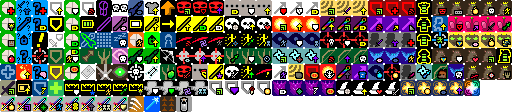
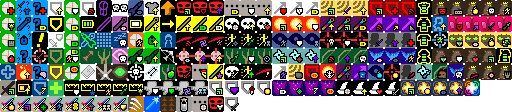
1.4: implemented new warrior sub talents

Changed region(s): [[0.375, 0.8571, 0.4688, 1.0]]

diff --git a/core/src/main/java/com/zrp200/rkpd2/actors/hero/Talent.java b/core/src/main/java/com/zrp200/rkpd2/actors/hero/Talent.java
@@ -83,11 +83,11 @@ public enum Talent {
 	//Warrior T3
 	HOLD_FAST(9, 3), STRONGMAN(10, 3), BEAR_PAW(200, 3),
 	//Berserker T3
-	ENDLESS_RAGE(11, 3), BERSERKING_STAMINA(12, 3), ENRAGED_CATALYST(13, 3), ONE_MAN_ARMY(139,3),
+	ENDLESS_RAGE(11, 3), BERSERKING_STAMINA(12, 3), ENRAGED_CATALYST(13, 3), ONE_MAN_ARMY(139,3), BRAVERY(205, 3),
 	//Gladiator T3
-	CLEAVE(14, 3), LETHAL_DEFENSE(15, 3), ENHANCED_COMBO(16, 3), SKILL(140,3),
+	CLEAVE(14, 3), LETHAL_DEFENSE(15, 3), ENHANCED_COMBO(16, 3), SKILL(140,3), EFFICIENT_TRAINING(204, 3),
 	//Brawler T3
-	POWER_STABILIZER(173, 3), ARCANITY_ENSUES(174, 3), IN_MY_MEMORIES(175, 3), HOLERIC_BURST(176, 3),
+	POWER_STABILIZER(173, 3), ARCANITY_ENSUES(174, 3), IN_MY_MEMORIES(175, 3), HOLERIC_BURST(176, 3), PRIDE_OF_STEEL(206, 3),
 	//Heroic Leap T4
 	BODY_SLAM(17, 4), IMPACT_WAVE(18, 4), DOUBLE_JUMP(19, 4), ALICE_GAMBIT(145, 4),
 	//Shockwave T4
@@ -509,6 +509,13 @@ public enum Talent {
 			Buff.prolong( hero, Haste.class, 0.67f+points);
 			hero.sprite.emitter().burst(Speck.factory(Speck.JET), 4*points);
 		}, ROYAL_MEAL);
+		if (hero.hasTalent(EFFICIENT_TRAINING)){
+			for (int i = 0; i < hero.pointsInTalent(EFFICIENT_TRAINING)-1; i++){
+				Buff.affect(hero, Combo.class).incCombo();
+			}
+			if (hero.buff(Combo.class) != null)
+				Buff.affect(hero, Combo.class).addTime(8f);
+		}
 	}
 
 	public static class WarriorFoodImmunity extends FlavourBuff{
@@ -885,13 +892,13 @@ public enum Talent {
 		//tier 3
 		switch (cls){
 			case BERSERKER: default:
-				Collections.addAll(tierTalents, ENDLESS_RAGE, BERSERKING_STAMINA, ENRAGED_CATALYST, ONE_MAN_ARMY);
+				Collections.addAll(tierTalents, ENDLESS_RAGE, BERSERKING_STAMINA, ENRAGED_CATALYST, ONE_MAN_ARMY, BRAVERY);
 				break;
 			case BRAWLER:
-				Collections.addAll(tierTalents, POWER_STABILIZER, ARCANITY_ENSUES, IN_MY_MEMORIES, HOLERIC_BURST);
+				Collections.addAll(tierTalents, POWER_STABILIZER, ARCANITY_ENSUES, IN_MY_MEMORIES, HOLERIC_BURST, PRIDE_OF_STEEL);
 				break;
 			case GLADIATOR:
-				Collections.addAll(tierTalents, CLEAVE, LETHAL_DEFENSE, ENHANCED_COMBO, SKILL);
+				Collections.addAll(tierTalents, CLEAVE, LETHAL_DEFENSE, ENHANCED_COMBO, SKILL, EFFICIENT_TRAINING);
 				break;
 			case BATTLEMAGE:
 				Collections.addAll(tierTalents, EMPOWERED_STRIKE, MYSTICAL_CHARGE, EXCESS_CHARGE, SORCERY);

diff --git a/core/src/main/java/com/zrp200/rkpd2/actors/Char.java b/core/src/main/java/com/zrp200/rkpd2/actors/Char.java
@@ -52,6 +52,7 @@ import com.zrp200.rkpd2.items.rings.RingOfElements;
 import com.zrp200.rkpd2.items.scrolls.ScrollOfRetribution;
 import com.zrp200.rkpd2.items.scrolls.ScrollOfTeleportation;
 import com.zrp200.rkpd2.items.scrolls.exotic.ScrollOfPsionicBlast;
+import com.zrp200.rkpd2.items.stones.StoneOfAggression;
 import com.zrp200.rkpd2.items.wands.WandOfFireblast;
 import com.zrp200.rkpd2.items.wands.WandOfFirebolt;
 import com.zrp200.rkpd2.items.wands.WandOfFrost;
@@ -388,19 +389,34 @@ public abstract class Char extends Actor {
 				dr = 0;
 			}
 			effectiveDamage = Math.max( effectiveDamage - dr, 0 );
+			if (buff(BrawlerBuff.BrawlingTracker.class) != null && this instanceof Hero) {
+				if (hero.hasTalent(Talent.PRIDE_OF_STEEL)) {
+					effectiveDamage += dr;
+				}
+			}
+			if (enemy instanceof Hero && (((Hero) enemy).hasTalent(Talent.BRAVERY))){
+				Berserk b = Buff.affect(enemy, Berserk.class);
+				b.damage(Math.round(
+							(0.5f+((Hero) enemy).pointsInTalent(Talent.BRAVERY)/2f) *effectiveDamage));
+			}
+
 			
 			if ( enemy.buff( Vulnerable.class ) != null){
 				effectiveDamage *= 1.33f;
 			}
 			
 			effectiveDamage = attackProc( enemy, effectiveDamage );
-			
+
+
 			if (visibleFight) {
 				if (effectiveDamage > 0 || !enemy.blockSound(Random.Float(0.96f, 1.05f))) {
 					hitSound(Random.Float(0.87f, 1.15f));
 				}
 			}
 			if (buff(BrawlerBuff.BrawlingTracker.class) != null && this instanceof Hero){
+				if (hero.pointsInTalent(Talent.PRIDE_OF_STEEL) > 2) {
+					Buff.affect(enemy, StoneOfAggression.Aggression.class, 4f);
+				}
 				effectiveDamage = ((MeleeWeapon)((Hero) this).belongings.weapon()).warriorAttack(effectiveDamage, enemy);
 			}
 			if (RobotBuff.isRobot() && this instanceof Hero){

diff --git a/core/src/main/java/com/zrp200/rkpd2/items/food/Food.java b/core/src/main/java/com/zrp200/rkpd2/items/food/Food.java
@@ -21,11 +21,8 @@
 
 package com.zrp200.rkpd2.items.food;
 
-import com.zrp200.rkpd2.Assets;
-import com.zrp200.rkpd2.Badges;
-import com.zrp200.rkpd2.Challenges;
-import com.zrp200.rkpd2.Dungeon;
-import com.zrp200.rkpd2.Statistics;
+import com.watabou.noosa.audio.Sample;
+import com.zrp200.rkpd2.*;
 import com.zrp200.rkpd2.actors.buffs.Buff;
 import com.zrp200.rkpd2.actors.buffs.Hunger;
 import com.zrp200.rkpd2.actors.hero.Hero;
@@ -35,7 +32,6 @@ import com.zrp200.rkpd2.items.Item;
 import com.zrp200.rkpd2.messages.Messages;
 import com.zrp200.rkpd2.sprites.ItemSpriteSheet;
 import com.zrp200.rkpd2.utils.GLog;
-import com.watabou.noosa.audio.Sample;
 
 import java.util.ArrayList;
 
@@ -95,7 +91,8 @@ public class Food extends Item {
 				|| hero.hasTalent(Talent.ENERGIZING_MEAL_II)
 				|| hero.hasTalent(Talent.MYSTICAL_MEAL)
 				|| hero.hasTalent(Talent.INVIGORATING_MEAL)
-				|| hero.hasTalent(Talent.ROYAL_MEAL) ? 2
+				|| hero.hasTalent(Talent.ROYAL_MEAL)
+				|| hero.hasTalent(Talent.EFFICIENT_TRAINING) ? 2
 				: 0;
 		return TIME_TO_EAT - reduction;
 	}

diff --git a/core/src/main/java/com/zrp200/rkpd2/actors/buffs/BrawlerBuff.java b/core/src/main/java/com/zrp200/rkpd2/actors/buffs/BrawlerBuff.java
@@ -10,6 +10,7 @@ import com.zrp200.rkpd2.actors.hero.Talent;
 import com.zrp200.rkpd2.effects.Speck;
 import com.zrp200.rkpd2.items.BrokenSeal;
 import com.zrp200.rkpd2.items.bombs.Bomb;
+import com.zrp200.rkpd2.items.rings.RingOfWealth;
 import com.zrp200.rkpd2.items.weapon.melee.MeleeWeapon;
 import com.zrp200.rkpd2.messages.Messages;
 import com.zrp200.rkpd2.scenes.CellSelector;
@@ -149,6 +150,10 @@ public class BrawlerBuff extends CounterBuff implements ActionIndicator.Action {
                 hero.HP += heal;
                 Emitter e = hero.sprite.emitter();
                 if (e != null && heal > 0) e.burst(Speck.factory(Speck.HEALING), Math.max(1,Math.round(heal*2f/5)));
+            }
+            if (hero.pointsInTalent(Talent.PRIDE_OF_STEEL) > 1){
+                Dungeon.level.drop(RingOfWealth.genConsumableDrop(hero.lvl/2), enemy.pos).sprite.drop();
+                RingOfWealth.showFlareForBonusDrop(enemy.sprite);
             }
         }
         Buff.detach(hero, BrawlingTracker.class);

diff --git a/core/src/main/java/com/zrp200/rkpd2/actors/buffs/Combo.java b/core/src/main/java/com/zrp200/rkpd2/actors/buffs/Combo.java
@@ -101,7 +101,7 @@ public class Combo extends Buff implements ActionIndicator.Action {
 		}
 		incCombo();
 	}
-	void incCombo() {
+	public void incCombo() {
 		count++;
 		initialComboTime = comboTime;
 
